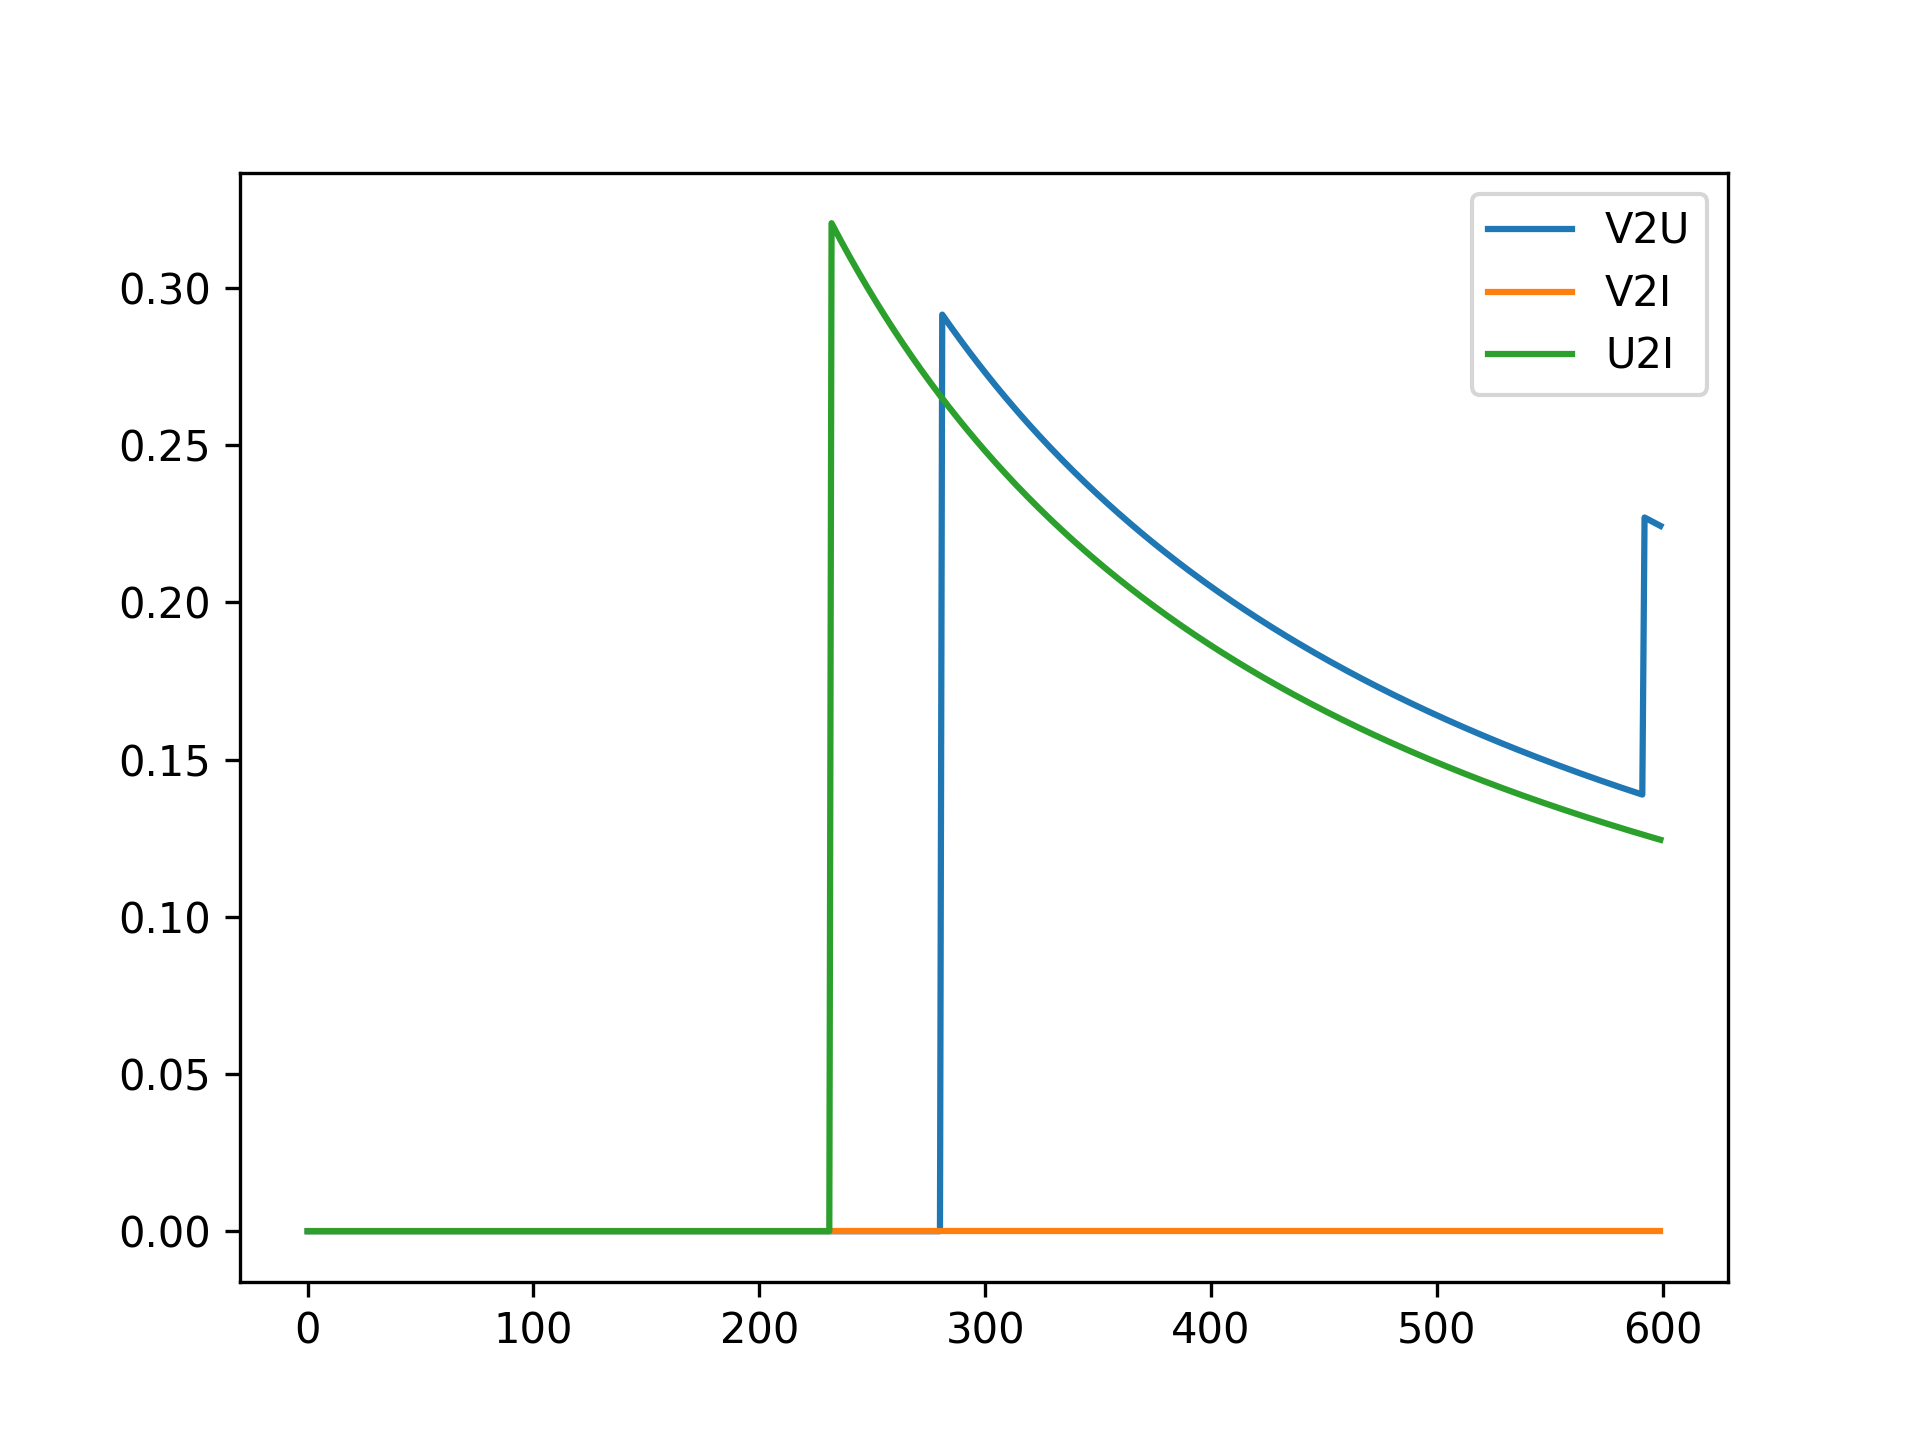
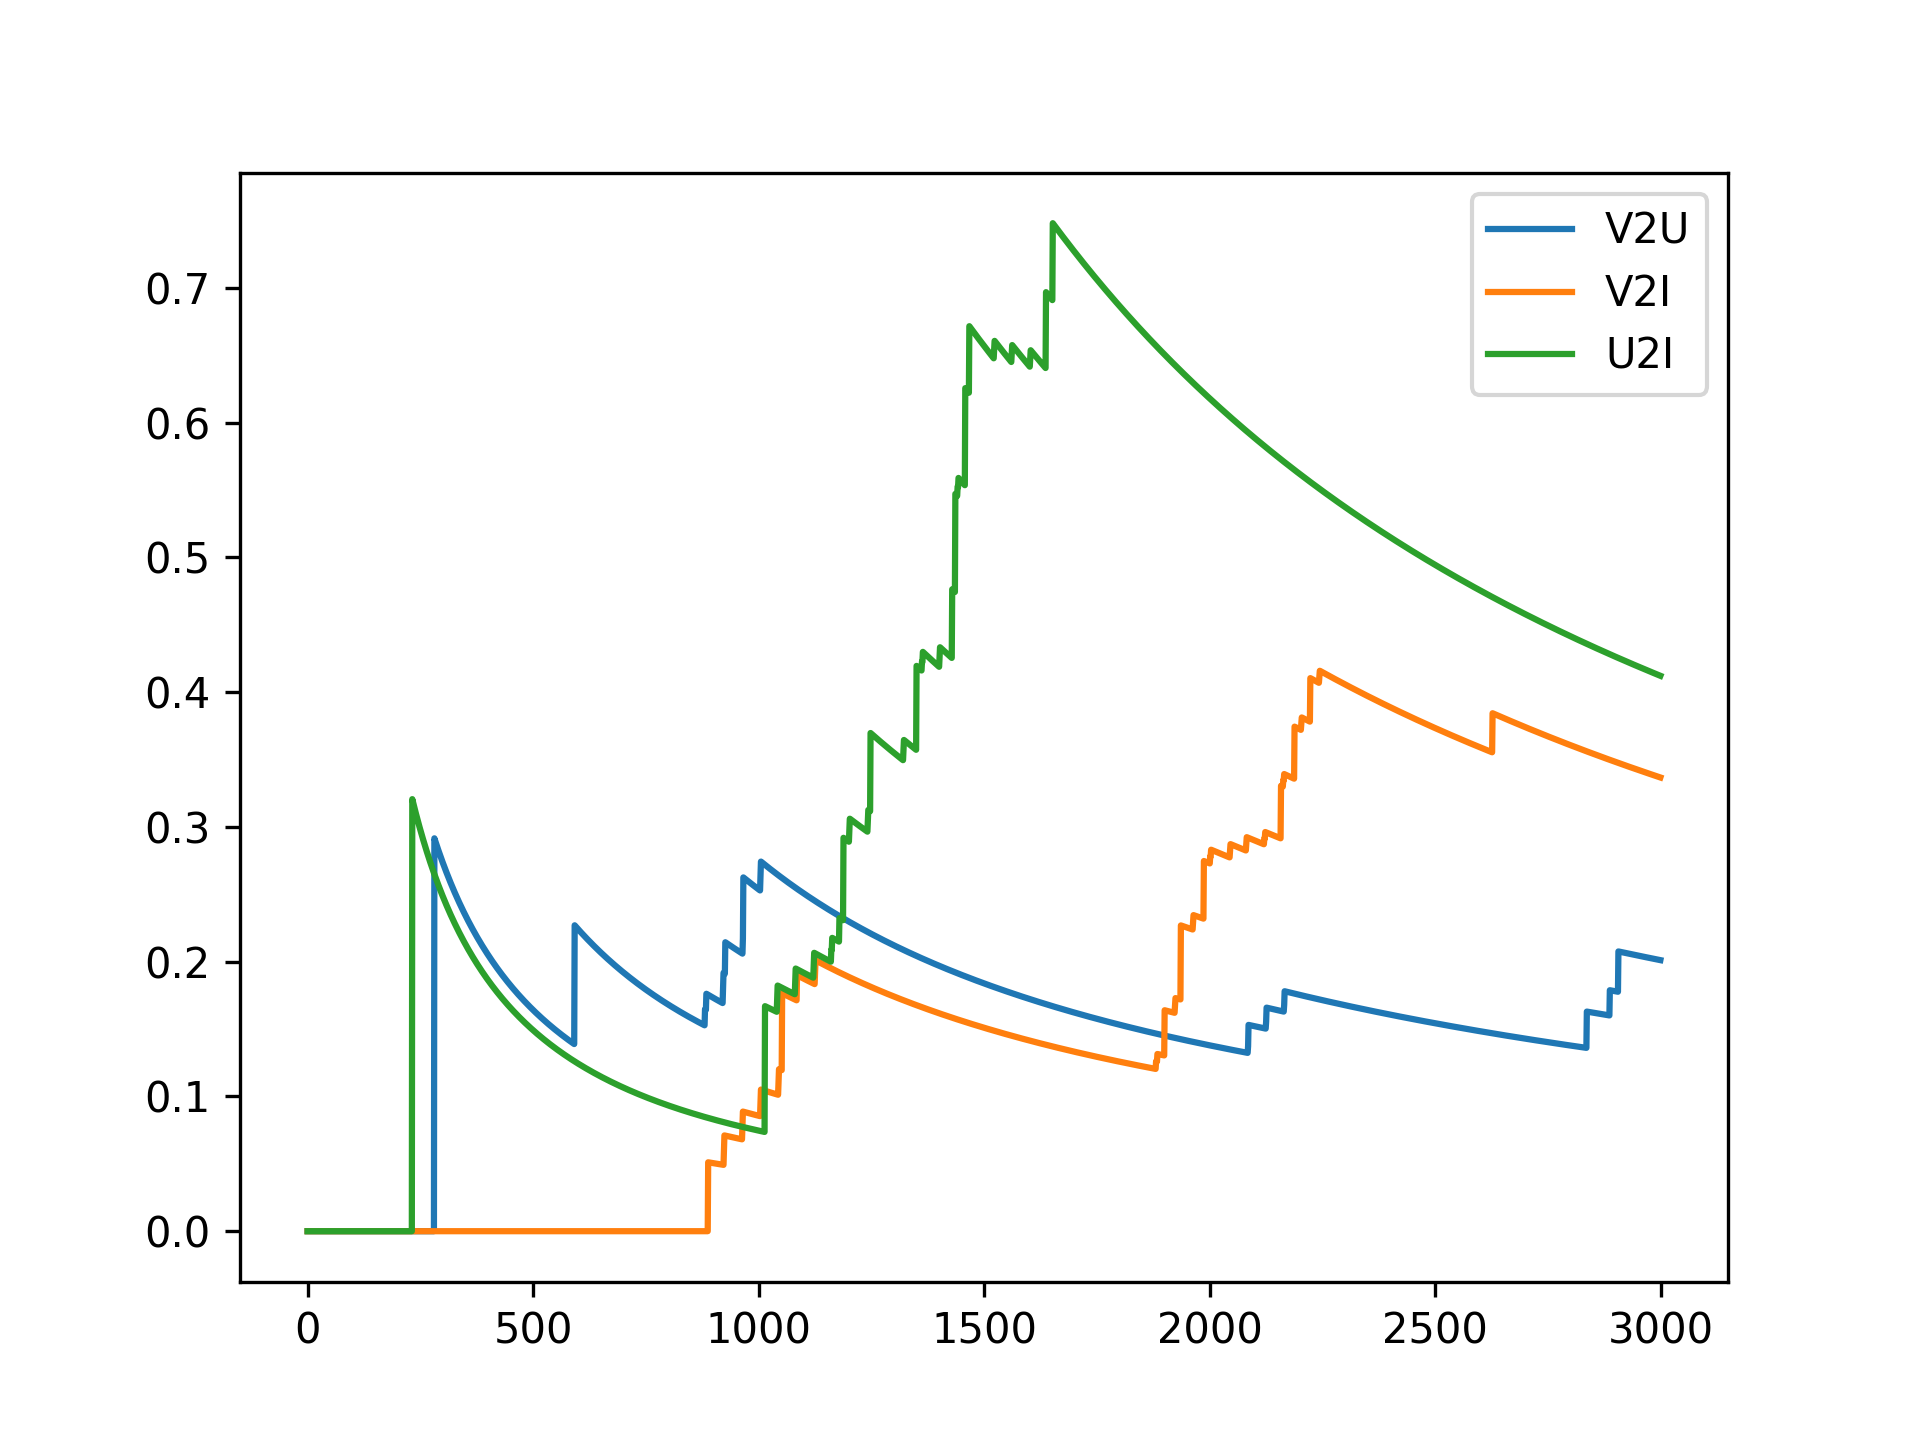
更新数据提取

diff --git a/examples/example01_offloading_example.py b/examples/example01_offloading_example.py
@@ -19,7 +19,7 @@ sys.path.append(os.path.abspath(os.path.join(os.path.dirname(__file__), '..')))
 dir_name = os.path.dirname(__file__)
 
 from airfogsim import AirFogSimEnv, BaseAlgorithmModule
-from airfogsim.scheduler import RewardScheduler, TaskScheduler
+from airfogsim.scheduler import RewardScheduler, TaskScheduler, EntityScheduler, ComputationScheduler
 from airfogsim.data_manager import DataManager
 
 # 平均速率计算工具函数（基于 EntityScheduler）
@@ -93,7 +93,7 @@ for i in range(1):
     }
     mode1_info = dict(task_config_info)
     mode1_info["succ_ratio_list"] = []
-    mode2_info = {"succ_ratio_list": []}
+    mode2_info = {"info_list": []}
 
     step_count = 0  # 初始化步骤计数器
 
@@ -126,14 +126,47 @@ for i in range(1):
         if step_count % 5 == 0:
             avg_speed_car = get_vehicle_avg_speed(env)
             avg_speed_uav = get_uav_avg_speed(env)
-            mode2_info["succ_ratio_list"].append({
+
+             # === 任务状态统计 ===
+            status_counts = {
+                "waiting": len(TaskScheduler.getAllToOffloadTasks(env)),
+                "offloading": len(TaskScheduler.getAllOffloadingTaskInfos(env)),
+                "computing": len(TaskScheduler.getAllComputingTaskInfos(env)),
+                "done": TaskScheduler.getDoneTaskNum(env),
+                "failed": TaskScheduler.getOutOfDDLTasks(env)
+            }
+
+            # === 正在执行的任务详情（每个实体） ===
+            running_tasks_info = []
+            compute_delays = []
+            all_ids, type_list = EntityScheduler.getAllNodeIdsWithType(env)
+            for node_id, node_type in zip(all_ids, type_list):
+                total_remain_cpu, cpu, compute_delay = ComputationScheduler.getComputeStatusByNodeId(env, node_id)
+                if total_remain_cpu > 0:
+                    entity_task_info = {
+                        "node_id": node_id,
+                        "node_type": node_type,
+                        "remaining_cpu": round(total_remain_cpu, 2),
+                        "cpu": round(cpu, 2),
+                        "compute_delay": round(compute_delay, 4)
+                    }
+                    running_tasks_info.append(entity_task_info)
+                    compute_delays.append(compute_delay)
+            avg_running_compute_delay = (
+                round(sum(compute_delays) / len(compute_delays), 4) if compute_delays else 0.0
+            )
+
+            mode2_info["info_list"].append({
                 "step": step_count,
                 "succ_ratio": round(succ_ratio, 4),
                 "avg_speed_car": round(avg_speed_car, 2),
                 "avg_speed_uav": round(avg_speed_uav, 2),
                 "v2u_rate": round(v2u_rate[-1], 2),
                 "v2i_rate": round(v2i_rate[-1], 2),
-                "u2i_rate": round(u2i_rate[-1], 2)
+                "u2i_rate": round(u2i_rate[-1], 2),
+                "task_status": status_counts,
+                "running_tasks": running_tasks_info,
+                "avg_running_compute_delay": avg_running_compute_delay
             })
 
         with open(mode2_file, 'w') as f2:

diff --git a/airfogsim/scheduler/computation_sched.py b/airfogsim/scheduler/computation_sched.py
@@ -43,6 +43,43 @@ class ComputationScheduler(BaseScheduler):
     
     # 新增的一个函数，与getComputeDelayByNodeId类似但是返回更多信息
     @staticmethod
+    def getComputeStatusByNodeId(env, node_id: str, added_task_cpu=0):
+        """
+        获取指定节点的剩余计算量、计算能力和计算时延。
+
+        Args:
+            env (AirFogSimEnv): 环境对象。
+            node_id (str): 节点 ID。
+            added_task_cpu (float): 额外增加的计算任务 CPU 需求。
+
+        Returns:
+            tuple: (total_remain_cpu, cpu, compute_delay)
+                - total_remain_cpu (float): 节点剩余计算量。
+                - cpu (float): 节点计算能力。
+                - compute_delay (float): 计算时延，剩余计算量除以计算能力。
+        """
+        to_compute_tasks = env.task_manager.getToComputeTasks(node_id)
+        total_remain_cpu = 0
+        for task in to_compute_tasks:
+            task_cpu = task.getTaskCPU()
+            computed_cpu = task.getComputedSize()
+            remain_cpu = task_cpu - computed_cpu
+            assert remain_cpu >= 0
+            total_remain_cpu += remain_cpu
+
+        comp_node = env._getNodeById(node_id)
+        cpu = comp_node.getFogProfile().get('cpu', 0)
+        cpu = max(0.1, cpu)  # 避免除零错误
+
+        total_remain_cpu += added_task_cpu
+        assert total_remain_cpu >= 0
+
+        compute_delay = total_remain_cpu / cpu
+
+        return total_remain_cpu, cpu, compute_delay
+
+    # 新增的一个函数，与getComputeDelayByNodeId类似但是返回更多信息
+    @staticmethod
     def getComputeInfoByNodeId(env, node_id: str, added_task_cpu=0):
         """获取指定节点的计算延迟、当前已用计算资源和剩余计算资源。
 
